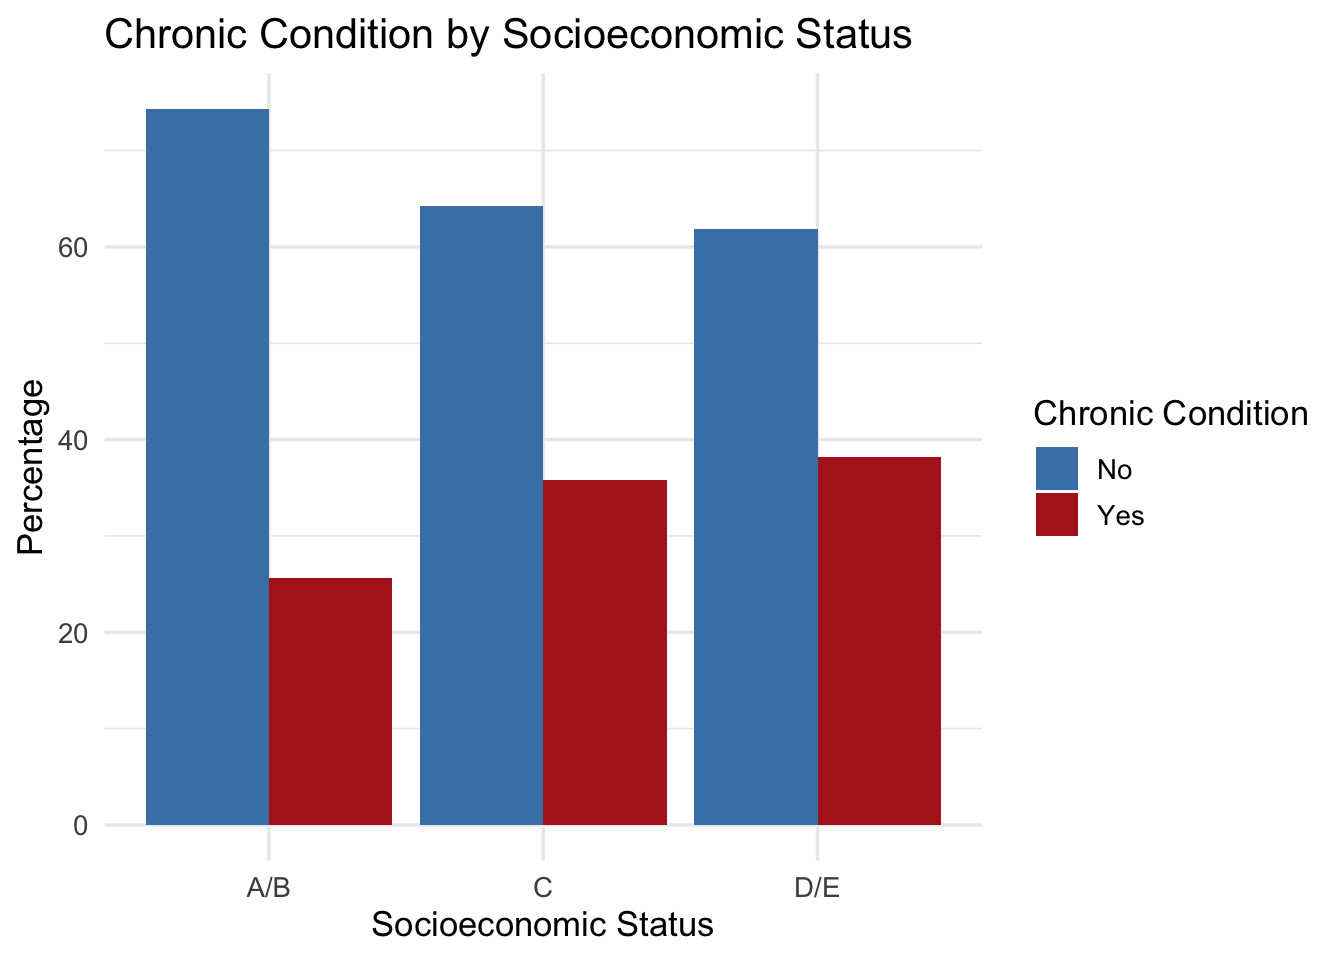
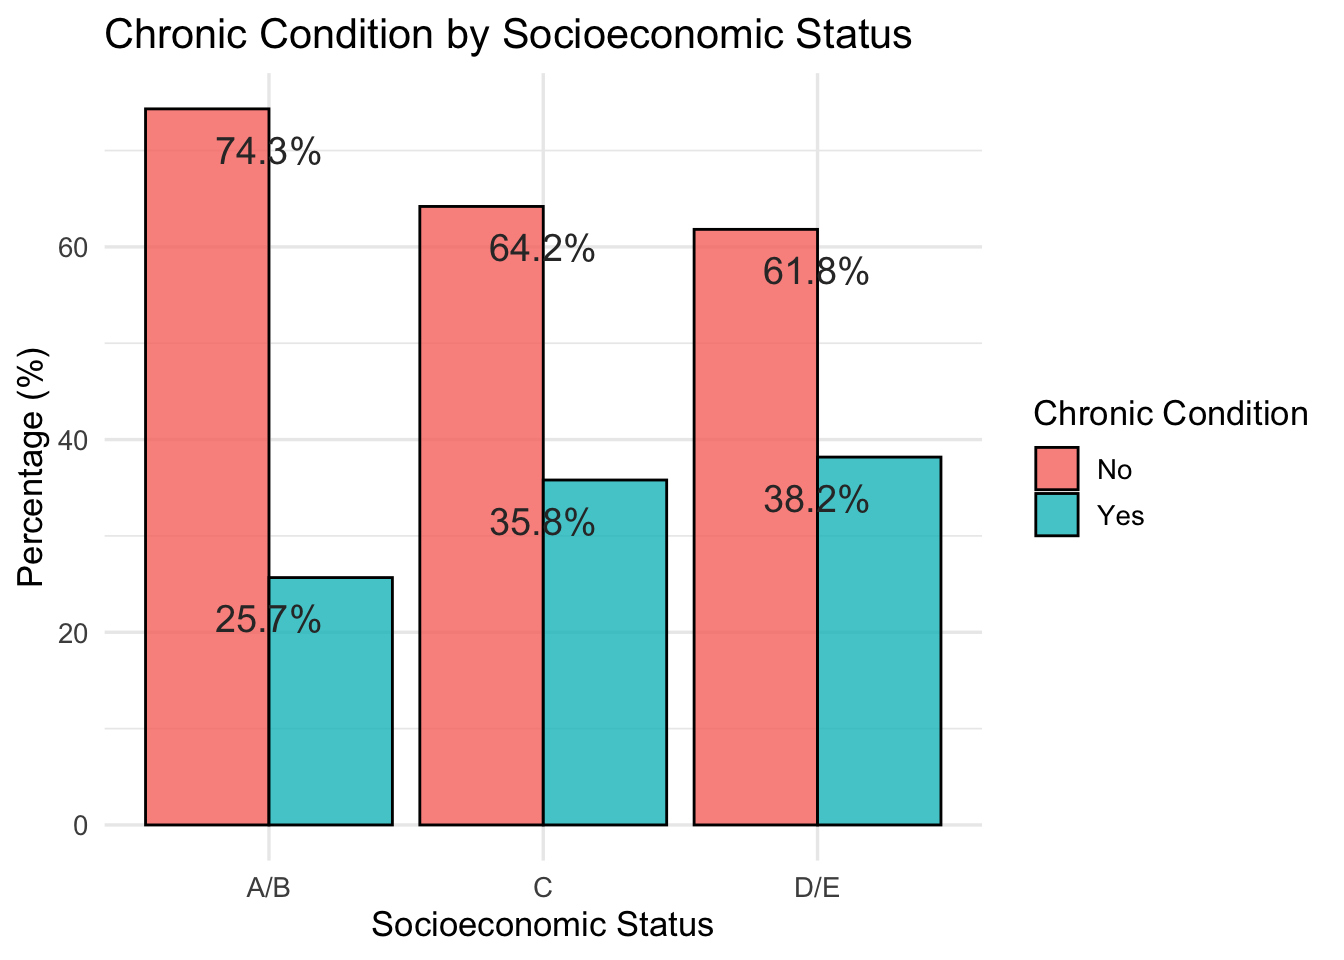
aesthetic changes plots

Changed region(s): [[0.0938, 0.0938, 0.7188, 0.875], [0.0, 0.375, 0.0312, 0.625], [0.75, 0.4688, 0.8125, 0.5625]]

diff --git a/docs/Plots_Latinx_research_week.html b/docs/Plots_Latinx_research_week.html
@@ -382,7 +382,7 @@ aria-hidden="true"></span> </a>
 <div class="tab-content">
 <div id="summary" class="tab-pane fade in active">
 <p>
-<strong>Last updated:</strong> 2025-04-10
+<strong>Last updated:</strong> 2025-04-15
 </p>
 <p>
 <strong>Checks:</strong> <span
@@ -516,15 +516,15 @@ project makes it easier to run your code on other machines.</p>
 <div class="panel panel-default">
 <div class="panel-heading">
 <p class="panel-title">
-<a data-toggle="collapse" data-parent="#workflowr-checks" href="#strongRepositoryversionstrongahrefhttpsgithubcomlasisilabQUAILMextree3ca49680d9c98b1c43c0ee1630121310abc3990ctargetblank3ca4968a">
+<a data-toggle="collapse" data-parent="#workflowr-checks" href="#strongRepositoryversionstrongahrefhttpsgithubcomlasisilabQUAILMextree1414b15bfff63feb82f4063c54605b88bc192e43targetblank1414b15a">
 <span class="glyphicon glyphicon-ok text-success"
 aria-hidden="true"></span> <strong>Repository version:</strong>
-<a href="https://github.com/lasisilab/QUAIL-Mex/tree/3ca49680d9c98b1c43c0ee1630121310abc3990c" target="_blank">3ca4968</a>
+<a href="https://github.com/lasisilab/QUAIL-Mex/tree/1414b15bfff63feb82f4063c54605b88bc192e43" target="_blank">1414b15</a>
 </a>
 </p>
 </div>
 <div
[2 lines of base64/hex data omitted]
 class="panel-collapse collapse">
 <div class="panel-body">
 <p>
@@ -534,7 +534,7 @@ reproducibility.
 </p>
 <p>
 The results in this page were generated with repository version
-<a href="https://github.com/lasisilab/QUAIL-Mex/tree/3ca49680d9c98b1c43c0ee1630121310abc3990c" target="_blank">3ca4968</a>.
+<a href="https://github.com/lasisilab/QUAIL-Mex/tree/1414b15bfff63feb82f4063c54605b88bc192e43" target="_blank">1414b15</a>.
 See the <em>Past versions</em> tab to see a history of the changes made
 to the R Markdown and HTML files.
 </p>
@@ -610,6 +610,40 @@ Message
 </tr>
 </thead>
 <tbody>
+<tr>
+<td>
+Rmd
+</td>
+<td>
+<a href="https://github.com/lasisilab/QUAIL-Mex/blob/1414b15bfff63feb82f4063c54605b88bc192e43/analysis/Plots_Latinx_research_week.Rmd" target="_blank">1414b15</a>
+</td>
+<td>
+Paloma
+</td>
+<td>
+2025-04-10
+</td>
+<td>
+plots Sanaa
+</td>
+</tr>
+<tr>
+<td>
+html
+</td>
+<td>
+<a href="https://rawcdn.githack.com/lasisilab/QUAIL-Mex/1414b15bfff63feb82f4063c54605b88bc192e43/docs/Plots_Latinx_research_week.html" target="_blank">1414b15</a>
+</td>
+<td>
+Paloma
+</td>
+<td>
+2025-04-10
+</td>
+<td>
+plots Sanaa
+</td>
+</tr>
 <tr>
 <td>
 Rmd
@@ -889,6 +923,17 @@ Date
 <tbody>
 <tr>
 <td>
+<a href="https://github.com/lasisilab/QUAIL-Mex/blob/1414b15bfff63feb82f4063c54605b88bc192e43/docs/figure/Plots_Latinx_research_week.Rmd/unnamed-chunk-2-1.png" target="_blank">1414b15</a>
+</td>
+<td>
+Paloma
+</td>
+<td>
+2025-04-10
+</td>
+</tr>
+<tr>
+<td>
 <a href="https://github.com/lasisilab/QUAIL-Mex/blob/c9896b146173f19200fc76202380d6cd911603ca/docs/figure/Plots_Latinx_research_week.Rmd/unnamed-chunk-2-1.png" target="_blank">c9896b1</a>
 </td>
 <td>
@@ -913,12 +958,16 @@ plot_data &lt;- data %&gt;%
 
 # Step 2: Plot as grouped bar chart (percentage)
 ggplot(plot_data, aes(x = SES, y = percent, fill = chronic)) +
-  geom_bar(stat = &quot;identity&quot;, position = &quot;dodge&quot;) +
-  scale_fill_manual(values = c(&quot;No&quot; = &quot;steelblue&quot;, &quot;Yes&quot; = &quot;firebrick&quot;)) +
+  geom_bar(stat = &quot;identity&quot;, position = &quot;dodge&quot;, alpha = 0.8, color = &quot;black&quot;) +
+ # scale_fill_manual(values = c(&quot;No&quot; = &quot;#fbaca7&quot;, &quot;Yes&quot; = &quot;#52d8da&quot;)) +
+  geom_text(aes(label = paste(round(percent, 1), &quot;%&quot;, sep=&quot;&quot;)), 
+            vjust = 2, 
+            colour = &quot;gray20&quot;, 
+            size = 5) +
   labs(
     title = &quot;Chronic Condition by Socioeconomic Status&quot;,
     x = &quot;Socioeconomic Status&quot;,
-    y = &quot;Percentage&quot;,
+    y = &quot;Percentage (%)&quot;,
     fill = &quot;Chronic Condition&quot;
   ) +
   theme_minimal(base_size = 13)</code></pre>
@@ -945,6 +994,17 @@ Date
 </tr>
 </thead>
 <tbody>
+<tr>
+<td>
+<a href="https://github.com/lasisilab/QUAIL-Mex/blob/1414b15bfff63feb82f4063c54605b88bc192e43/docs/figure/Plots_Latinx_research_week.Rmd/unnamed-chunk-2-2.png" target="_blank">1414b15</a>
+</td>
+<td>
+Paloma
+</td>
+<td>
+2025-04-10
+</td>
+</tr>
 <tr>
 <td>
 <a href="https://github.com/lasisilab/QUAIL-Mex/blob/3ca49680d9c98b1c43c0ee1630121310abc3990c/docs/figure/Plots_Latinx_research_week.Rmd/unnamed-chunk-2-2.png" target="_blank">3ca4968</a>
@@ -1204,6 +1264,17 @@ Date
 </tr>
 </thead>
 <tbody>
+<tr>
+<td>
+<a href="https://github.com/lasisilab/QUAIL-Mex/blob/1414b15bfff63feb82f4063c54605b88bc192e43/docs/figure/Plots_Latinx_research_week.Rmd/unnamed-chunk-4-1.png" target="_blank">1414b15</a>
+</td>
+<td>
+Paloma
+</td>
+<td>
+2025-04-10
+</td>
+</tr>
 <tr>
 <td>
 <a href="https://github.com/lasisilab/QUAIL-Mex/blob/3ca49680d9c98b1c43c0ee1630121310abc3990c/docs/figure/Plots_Latinx_research_week.Rmd/unnamed-chunk-4-1.png" target="_blank">3ca4968</a>
